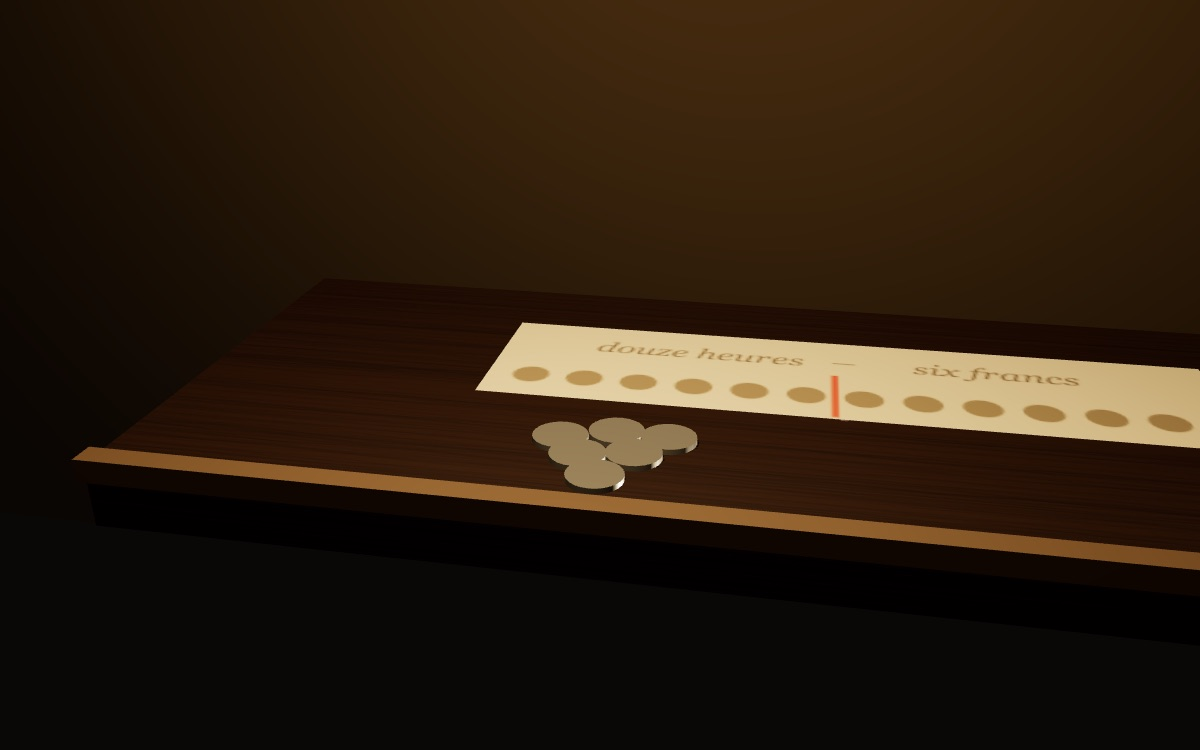
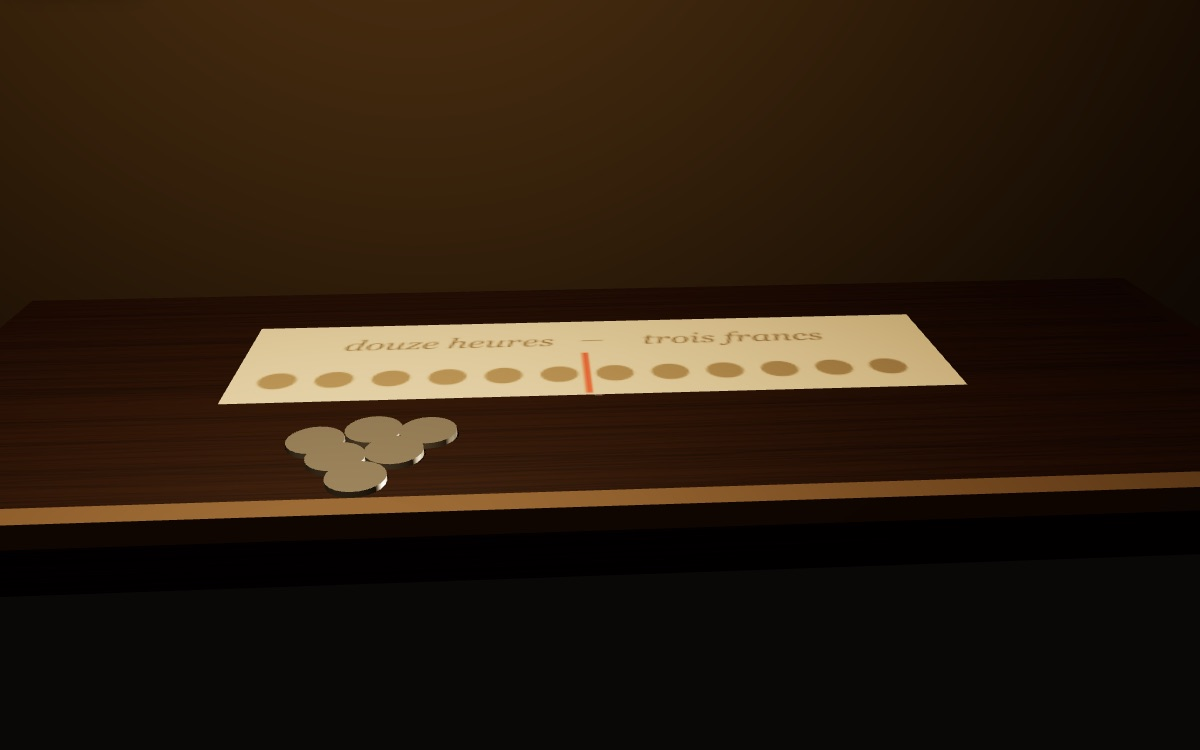
Glossaire : forme-salaire réécrite selon la charte, direction artistique « la paye »

Changed region(s): [[0.0, 0.368, 1.0, 0.7667], [0.0, 0.0, 0.1542, 0.2453], [0.925, 0.0, 1.0, 0.2147]]

diff --git a/glossaire/mondes/forme-salaire/essai.html b/glossaire/mondes/forme-salaire/essai.html
@@ -1,49 +1,85 @@
-<!-- L'ESSAI — le corps de /glossaire/forme-salaire. data-s="6" = Sixième
-     section de Roy (ch. XIX–XXII), « Le salaire ». Toutes les citations sont
-     relevées dans le texte que la liseuse sert, et chacune mène au passage. -->
+<!-- L'ESSAI : le corps de /glossaire/forme-salaire.
+     Fragment HTML, assemblé par tools/gen-seo.mjs dans le gabarit des pages
+     de notion (avec meta.json pour la tête, l'appareil et le monde).
+     Réécrit en octobre 2026 selon glossaire/mondes/CHARTE.md.
+     data-s="6" = sixième section de Roy (ch. XIX à XXII), « Le salaire ».
+     Chaque <q> et <blockquote data-s data-q> est une phrase RELEVÉE dans le
+     texte que la liseuse sert, insécables et apostrophes comprises : c'est
+     elle qui fait le lien #s=&q= vers le passage. -->
 
 <section class="nt-sec" data-etape="irrationnelle" id="irrationnelle">
-<h2>Une expression qui ne veut rien dire</h2>
-<p>Il y a dans le langage courant une expression que tout le monde emploie et que personne n'interroge&nbsp;: le <b>prix du travail</b>. On la trouve sur les affiches d'embauche comme dans les traités d'économie, et elle paraît si évidente qu'on ne voit pas ce qu'elle aurait d'obscur. Marx commence par montrer qu'elle est proprement impossible, et il faut suivre l'argument pas à pas, parce que c'est de son impossibilité même que tout le reste se déduit.</p>
-<p>Si le travail avait une valeur, il faudrait la mesurer&nbsp;; or on mesure la valeur d'une marchandise par le temps de travail qu'elle contient. Dire la valeur d'une journée de travail reviendrait donc à dire qu'elle vaut le temps de travail qu'elle contient, c'est-à-dire elle-même — une tautologie qui ne mesure rien. Marx le formule sans détour&nbsp;:</p>
+<h2>Que veut dire «&nbsp;le prix du travail&nbsp;»&nbsp;?</h2>
+<p class="nt-lead">Rien de précis, répond Marx&nbsp;: l'expression est irrationnelle. Elle s'impose pourtant à tout le monde, parce qu'elle décrit la manière dont le rapport entre le capitaliste et l'ouvrier se présente à ceux qui le vivent.</p>
+<p>L'ouvrier qui discute sa paie, le patron qui calcule ses coûts, l'économiste qui étudie les salaires parlent tous du prix du travail. L'expression paraît aussi claire que le prix du blé. Marx ouvre la sixième section du <i>Capital</i>, consacrée au salaire, en montrant qu'elle ne résiste pas à l'examen. Son premier argument tient à la définition de la valeur. On mesure la valeur d'une marchandise par le temps de travail qu'elle contient. Demander ce que vaut une journée de travail revient à répondre qu'elle vaut une journée de travail, et la mesure tourne en rond&nbsp;:</p>
 <blockquote data-s="6" data-q="Le travail est la substance et la mesure inhérente des valeurs, mais il n’a lui-même aucune valeur"><p>Le travail est la substance et la mesure inhérente des valeurs, mais il n’a lui-même aucune valeur.</p></blockquote>
-<p>Dans une telle expression, écrit-il, <q data-s="6" data-q="l’idée de valeur est complètement éteinte">l'idée de valeur est complètement éteinte</q>&nbsp;; c'est <q data-s="6" data-q="C’est une expression irrationnelle">une expression irrationnelle</q>, du même ordre que « valeur de la terre ». Mais — et c'est ici que le concept commence — l'irrationalité de la formule ne prouve pas qu'elle soit une bévue de langage qu'un peu de rigueur suffirait à corriger. Ces expressions, dit Marx, ont leur source dans les rapports de production eux-mêmes, dont elles réfléchissent les <q data-s="6" data-q="formes phénoménales">formes phénoménales</q>. Autrement dit&nbsp;: si tout le monde parle de prix du travail, ce n'est pas que tout le monde se trompe, c'est que le rapport se présente ainsi. La tâche n'est donc pas de corriger le mot, mais d'expliquer pourquoi la chose apparaît sous cette forme.</p>
+<p>Le second argument porte sur ce que l'ouvrier pourrait vendre. Pour vendre une chose, il faut l'avoir. Le travail n'existe qu'au moment où l'ouvrier met sa force en mouvement, et à ce moment il travaille déjà dans l'atelier d'un autre&nbsp;: <q data-s="6" data-q="dès que son travail existe, ce travail a déjà cessé de lui appartenir et ne peut plus désormais être vendu par lui">dès que son travail existe, ce travail a déjà cessé de lui appartenir et ne peut plus désormais être vendu par lui</q>. Dans l'expression «&nbsp;valeur du travail&nbsp;», conclut Marx, <q data-s="6" data-q="l’idée de valeur est complètement éteinte">l’idée de valeur est complètement éteinte</q>. <q data-s="6" data-q="C’est une expression irrationnelle">C’est une expression irrationnelle</q>, comme le serait «&nbsp;valeur de la terre&nbsp;».</p>
+<p>On pourrait s'en tenir là et corriger le vocabulaire. Marx va plus loin. Ces expressions, écrit-il, ont leur source dans les rapports de production eux-mêmes, dont elles réfléchissent les <q data-s="6" data-q="formes phénoménales">formes phénoménales</q>, c'est-à-dire la manière dont ces rapports apparaissent. Si tout le monde parle du prix du travail, c'est que le rapport salarial se donne à voir ainsi. Il faut donc expliquer pourquoi il apparaît sous cette forme, et la forme-salaire est le nom de cette apparence.</p>
 </section>
 
 <section class="nt-sec" data-etape="ou" id="ou">
-<h2>Où Marx le pose&nbsp;: après la plus-value, et non avant</h2>
-<p>Le salaire occupe la sixième section, et sa place est aussi raisonnée que celle de l'accumulation primitive à la fin du livre. On aurait pu croire qu'un ouvrage sur le capital devait commencer par lui, puisque c'est par le salaire que le rapport se donne à voir, et que c'est de lui que le lecteur a l'expérience. C'est précisément pourquoi il vient tard.</p>
-<p>Une forme transformée ne peut être analysée qu'après ce qu'elle transforme. Tant qu'on n'a pas établi que ce que le capitaliste achète est la <a href="/glossaire/force-de-travail">force de travail</a>, et que la journée se divise en un temps qui reproduit la valeur de cette force et un temps qui produit la <a href="/glossaire/plus-value">plus-value</a>, on n'a aucun moyen de dire ce que le salaire recouvre. On dirait alors ce que dit l'économie classique&nbsp;: que le salaire est le prix d'une marchandise nommée travail, et l'on chercherait indéfiniment autour de quel niveau ce prix oscille, sans jamais pouvoir dire ce qui est payé.</p>
-<p>Marx décrit ce blocage avec une précision qui vaut aussi pour la méthode&nbsp;: l'économie classique avait bien résolu <q data-s="6" data-q="la soi‑disant valeur du travail en valeur de la force de travail">la soi-disant valeur du travail en valeur de la force de travail</q>, mais sans voir qu'en le faisant elle avait changé les termes du problème au lieu de le résoudre. <q data-s="6" data-q="L’économie classique ne parvint jamais à s’apercevoir de ce quiproquo">L'économie classique ne parvint jamais à s'apercevoir de ce quiproquo</q>&nbsp;: elle tenait la solution sans savoir de quoi elle était la solution. L'ordre du Livre&nbsp;I corrige exactement cela — on ne peut nommer une forme que du point de vue de ce dont elle est la forme.</p>
+<h2>Pourquoi Marx ne parle-t-il du salaire qu'après la plus-value&nbsp;?</h2>
+<p class="nt-lead">Parce qu'une forme ne s'analyse qu'après ce qu'elle transforme. Le salaire est la forme que prend la valeur de la force de travail&nbsp;: il fallait d'abord établir ce qu'est cette force et ce qu'elle produit.</p>
+<p>Le salaire est ce que chacun connaît du capitalisme, l'expérience la plus commune de ce rapport. On aurait pu attendre qu'un livre sur le capital commence par lui. Marx le place à la sixième section, une fois acquis trois résultats. Le capitaliste achète la <a href="/glossaire/force-de-travail">force de travail</a>, c'est-à-dire la capacité de travailler pendant un temps donné. La journée se divise en un temps où l'ouvrier reproduit la valeur de cette force et un temps où il produit la <a href="/glossaire/plus-value">plus-value</a>. La longueur de la journée, enfin, fait l'objet d'une lutte entre les deux parties. Sans ces résultats, on ne saurait pas dire ce que le salaire recouvre.</p>
+<p>L'économie politique classique, celle d'Adam Smith et de David Ricardo, avait procédé dans l'autre sens. Elle avait reçu de la vie ordinaire la catégorie «&nbsp;prix du travail&nbsp;» et s'était demandé ensuite ce qui détermine ce prix. En cherchant le niveau autour duquel il oscille, elle avait ramené, dit Marx, <q data-s="6" data-q="la soi‑disant valeur du travail en valeur de la force de travail">la soi‑disant valeur du travail en valeur de la force de travail</q>. Elle tenait donc la bonne réponse, sans voir qu'elle avait changé les termes de la question&nbsp;: <q data-s="6" data-q="L’économie classique ne parvint jamais à s’apercevoir de ce quiproquo">l’économie classique ne parvint jamais à s’apercevoir de ce quiproquo</q>.</p>
+<p>L'ordre du livre contient ainsi une leçon de méthode. Une apparence se comprend à partir de ce qu'elle fait apparaître. Qui part du salaire reste pris dans ses termes, si savant soit-il. Qui y arrive après la plus-value peut dire à la fois ce que le salaire montre et ce qu'il cache.</p>
 </section>
 
 <section class="nt-sec" data-etape="distinction" id="distinction">
-<h2>La distinction qui fait le concept&nbsp;: ce qui est payé, ce qui paraît payé</h2>
-<p>Toute la notion tient dans l'écart entre deux choses que le salaire fait coïncider. Ce qui est acheté et payé, c'est la force de travail, à sa valeur, pour une journée. Ce qui paraît payé, c'est le travail de la journée, tout entier. La transaction est la même&nbsp;; sa lecture change du tout au tout.</p>
-<p>Marx le rend sensible en supposant un instant que l'expression fût exacte. Si l'ouvrier recevait vraiment la valeur de son travail — douze heures pour douze heures —, il ne produirait aucune plus-value, l'argent avancé ne se transformerait pas en capital, et <q data-s="6" data-q="la base de la production capitaliste disparaîtrait">la base de la production capitaliste disparaîtrait</q>. Le rapport ne peut donc pas fonctionner sur ce que sa propre formule affirme, et c'est là ce qui distingue une <i>forme phénoménale</i> d'un simple mensonge&nbsp;: le mensonge cacherait une transaction inéquitable, tandis qu'ici la transaction est parfaitement équitable et c'est sa forme qui égare.</p>
-<p>Il faut y insister, parce que c'est le point où l'on se trompe le plus souvent. Le salarié n'est pas volé sur le prix&nbsp;: il vend sa force à sa valeur, il reçoit ce qu'elle vaut, le contrat est tenu. Ce que la forme du salaire escamote n'est pas une somme, c'est une <b>coupure</b> — la ligne qui partage la journée entre le temps où le travailleur reproduit le prix de sa force et le temps où il travaille pour rien. La journée arrive payée d'un seul bloc, et rien dans le paiement n'indique où passait la limite.</p>
+<h2>Qu'est-ce qui est payé, et qu'est-ce qui paraît payé&nbsp;?</h2>
+<p class="nt-lead">Ce qui est payé, c'est la force de travail, à sa valeur, pour une journée. Ce qui paraît payé, c'est tout le travail de cette journée. Le salaire fait coïncider les deux, et la différence entre eux sort de la vue.</p>
+<p>Rappelons deux mots. Le travail nécessaire est la partie de la journée pendant laquelle l'ouvrier produit l'équivalent de ce qu'il reçoit. Le surtravail est la partie qui reste, pendant laquelle il produit la plus-value. Ces deux parties existent dans toute journée salariée. Le salaire, lui, ne les montre pas&nbsp;:</p>
+<blockquote data-s="6" data-q="fait donc disparaître toute trace de la division de la journée"><p>La forme salaire, ou payement direct du travail, fait donc disparaître toute trace de la division de la journée en travail nécessaire et surtravail, en travail payé et non payé, de sorte que tout le travail de l’ouvrier libre est censé être payé.</p></blockquote>
+
+<div class="nt-ex">
+<p class="nt-ex-t">Un exemple, avec les chiffres de Marx</p>
+<p>La force de travail vaut trois francs par jour&nbsp;: c'est ce que coûtent les subsistances de l'ouvrier, et il les reproduit en six heures. La journée dure douze heures&nbsp;: elle produit une valeur de six francs. L'ouvrier reçoit ses trois francs. Il est payé à la valeur de sa force, et le contrat est respecté. Mais dès qu'on confond la force avec ce qu'elle fait, on obtient la formule que Marx écrit en toutes lettres&nbsp;: <q data-s="6" data-q="Le travail de douze heures a une valeur de trois francs">Le travail de douze heures a une valeur de trois francs</q>.</p>
+<p>Dans cette phrase, les six heures où l'ouvrier produit la valeur de son salaire et les six autres, où il produit trois francs pour le capitaliste, se fondent en une seule durée. Les sommes sont exactes. La ligne qui séparait les deux moitiés de la journée, elle, a disparu. Si la force était payée quatre francs ou deux, la formule suivrait le mouvement, et Marx le résume d'une phrase&nbsp;: <q data-s="6" data-q="Il n’y a rien de changé que la forme">il n’y a rien de changé que la forme</q>.</p>
+</div>
+
+<p>Marx rend la distinction sensible par une supposition. Admettons que l'expression soit exacte et que l'ouvrier reçoive la valeur des douze heures. Il ne produirait alors aucune plus-value, l'argent avancé ne deviendrait pas capital, et <q data-s="6" data-q="la base de la production capitaliste disparaîtrait">la base de la production capitaliste disparaîtrait</q>. Le rapport ne peut donc pas fonctionner selon ce que dit sa propre formule. Une forme phénoménale diffère en cela d'une tromperie&nbsp;: l'échange respecte la loi de la valeur, et seule sa présentation égare.</p>
 </section>
 
 <section class="nt-sec" data-etape="mecanisme" id="mecanisme">
-<h2>Le mécanisme&nbsp;: comment la coupure disparaît</h2>
-<p>Marx compare trois rapports, et la comparaison est l'argument le plus net du chapitre. Dans le servage, la limite est visible parce qu'elle est <i>portée dans le monde</i>&nbsp;: <q data-s="6" data-q="le travail du corvéable pour lui-même et son travail forcé pour le seigneur sont nettement séparés l’un de l’autre par le temps et l’espace">le travail du corvéable pour lui-même et son travail forcé pour le seigneur sont nettement séparés l'un de l'autre par le temps et l'espace</q> — tel jour sur sa terre, tel jour sur celle du seigneur. Dans l'esclavage, la limite disparaît aussi, mais dans l'autre sens&nbsp;: la part où l'esclave ne fait que reproduire ses subsistances paraît, elle aussi, travail pour le maître, et <q data-s="6" data-q="Tout son travail revêt l’apparence de travail non payé">tout son travail revêt l'apparence de travail non payé</q>.</p>
-<p>Le travail salarié inverse exactement l'esclavage&nbsp;:</p>
-<blockquote data-s="6" data-q="même le surtravail ou travail non payé revêt l’apparence de travail payé"><p>C’est l’inverse chez le travail salarié&nbsp;: même le surtravail ou travail non payé revêt l’apparence de travail payé. Là le rapport de propriété dissimule le travail de l’esclave pour lui-même, ici <span></span>le rapport monétaire dissimule le travail gratuit du salarié pour son capitaliste.</p></blockquote>
-<p>On voit le déplacement&nbsp;: ce n'est plus une force extérieure qui masque la chose, c'est la forme de l'échange lui-même. Les deux chapitres suivants montrent comment cette forme se réalise en pratique. Le salaire au temps rapporte la somme reçue à une durée, ce qui produit une grandeur dérivée — le prix de l'heure — dont Marx montre qu'elle baisse à mesure que la journée s'allonge, si bien que l'allongement peut passer pour une faveur. Le salaire aux pièces paraît, lui, rompre avec le temps et payer le produit&nbsp;: c'est encore la même chose, puisque <q data-s="6" data-q="Le salaire aux pièces n’est qu’une transformation du salaire au temps">le salaire aux pièces n'est qu'une transformation du salaire au temps</q>. Il ajoute seulement que le contrôle du travail se passe désormais de surveillant, l'ouvrier ayant intérêt à se presser lui-même.</p>
+<h2>Pourquoi la limite entre travail payé et travail gratuit ne se voit-elle plus&nbsp;?</h2>
+<p class="nt-lead">Parce que tout passe par l'argent. Le servage montrait cette limite, l'esclavage la cachait dans un sens, le salariat la cache dans l'autre&nbsp;: un paiement unique semble couvrir toute la journée.</p>
+<p>Marx compare trois rapports de travail, et la comparaison fait voir ce que le salaire efface. Dans le servage, la limite se lit dans le monde&nbsp;: <q data-s="6" data-q="le travail du corvéable pour lui-même et son travail forcé pour le seigneur sont nettement séparés l’un de l’autre par le temps et l’espace">le travail du corvéable pour lui-même et son travail forcé pour le seigneur sont nettement séparés l’un de l’autre par le temps et l’espace</q>. Tel jour sur son champ, tel jour sur celui du seigneur&nbsp;: chacun sait pour qui il travaille. Dans l'esclavage, la limite disparaît, mais du côté opposé. La part de la journée où l'esclave ne fait que reproduire ses subsistances semble elle aussi faite pour son maître. <q data-s="6" data-q="Tout son travail revêt l’apparence de travail non payé">Tout son travail revêt l’apparence de travail non payé</q>. Le salariat renverse ce cas&nbsp;:</p>
+<blockquote data-s="6" data-q="même le surtravail ou travail non payé revêt l’apparence de travail payé"><p>C’est l’inverse chez le travail salarié&nbsp;: même le surtravail ou travail non payé revêt l’apparence de travail payé. Là le rapport de propriété dissimule le travail de l’esclave pour lui-même, ici le rapport monétaire dissimule le travail gratuit du salarié pour son capitaliste.</p></blockquote>
+<p>Pourquoi cette apparence s'impose-t-elle avec tant de force&nbsp;? Marx juge la réponse facile. S'il a fallu longtemps pour déchiffrer le secret du salaire, <q data-s="6" data-q="rien n’est au contraire plus facile à comprendre que la nécessité, que les raisons d’être de cette forme phénoménale">rien n’est au contraire plus facile à comprendre que la nécessité, que les raisons d’être de cette forme phénoménale</q>. D'abord, <q data-s="6" data-q="Rien ne distingue au premier abord l’échange entre capital et travail de l’achat et de la vente de toute autre marchandise">rien ne distingue au premier abord l’échange entre capital et travail de l’achat et de la vente de toute autre marchandise</q>&nbsp;: l'un donne de l'argent, l'autre fournit quelque chose. Ensuite, <q data-s="6" data-q="le travailleur n’est payé qu’après avoir livré son travail">le travailleur n’est payé qu’après avoir livré son travail</q>, si bien que l'argent semble régler après coup le prix d'une chose livrée. Enfin, ce dont le capitaliste se sert est bien le travail, l'usage de la force, et c'est cela qu'il croit acheter.</p>
+<p>Le capitaliste n'a d'ailleurs aucune raison de pousser l'analyse. Il veut le plus de travail possible pour le moins d'argent, et ce calcul lui suffit. Marx note avec ironie que s'il existait vraiment une valeur du travail et qu'il dût la payer, il n'y aurait plus de capital, et son argent <q data-s="6" data-q="perdrait la qualité occulte de faire des petits">perdrait la qualité occulte de faire des petits</q>.</p>
 </section>
 
 <section class="nt-sec" data-etape="ouvre" id="ouvre">
-<h2>Ce que le concept ouvre&nbsp;: d'où viennent les évidences</h2>
-<p>La portée de cette analyse dépasse de loin la question des salaires. Si la forme du salaire fait apparaître comme payée une journée qui ne l'est qu'à moitié, alors elle ne trompe pas seulement sur un fait&nbsp;: elle fournit le sol sur lequel poussent les représentations que les deux parties se font de leur rapport. Marx le dit dans une phrase dont chaque terme compte&nbsp;:</p>
-<blockquote data-s="6" data-q="rend invisible le rapport réel entre capital et travail et en montre précisément le contraire"><p>[Cette forme phénoménale] rend invisible le rapport réel entre capital et travail et en montre précisément le contraire&nbsp;; c’est d’elle que dérivent toutes les notions juridiques du salarié et du capitaliste, toutes les mystifications de la production capitaliste, toutes les illusions libérales et tous les faux‑fuyants apologétiques de l’économie vulgaire.</p></blockquote>
-<p>Ce que le concept ouvre, c'est donc une manière de traiter les évidences. Elles ne sont ni des erreurs à réfuter ni des mensonges à dénoncer&nbsp;: elles sont les formes sous lesquelles un rapport se donne nécessairement à voir à ceux qui y sont pris. On reconnaît ici le geste du <a href="/glossaire/fetichisme">fétichisme</a>, appliqué cette fois non à la marchandise mais au contrat de travail — et l'on comprend que Marx range parmi les effets de la forme-salaire jusqu'aux catégories du droit, ce qui est une thèse forte et qu'il faut prendre au sérieux&nbsp;: l'égalité des contractants n'est pas une fiction plaquée sur le rapport, elle en est l'expression exacte au niveau où il se présente.</p>
-<p>Nous ajoutons, parce que le texte y invite et que la suite du livre le confirme, que cette analyse ne conduit pas au fatalisme. Si la forme rend la coupure invisible, elle ne la supprime pas&nbsp;: la lutte sur la longueur de la journée et sur le taux du salaire porte, en fait, sur la place de cette limite, quoi qu'en disent les termes dans lesquels elle se mène.</p>
+<h2>Que produit cette apparence&nbsp;?</h2>
+<p class="nt-lead">Elle produit les évidences des deux parties&nbsp;: les catégories du droit, la croyance en un contrat entre égaux, les justifications de l'économie. Elle règle aussi la façon dont on paie, à l'heure ou à la pièce.</p>
+<p>Marx tire lui-même la conséquence, dans une phrase où chaque terme compte&nbsp;:</p>
+<blockquote data-s="6" data-q="rend invisible le rapport réel entre capital et travail et en montre précisément le contraire"><p>Cette forme, qui n’exprime que les fausses apparences du travail salarié, rend invisible le rapport réel entre capital et travail et en montre précisément le contraire&nbsp;; c’est d’elle que dérivent toutes les notions juridiques du salarié et du capitaliste, toutes les mystifications de la production capitaliste, toutes les illusions libérales et tous les faux‑fuyants apologétiques de l’économie vulgaire.</p></blockquote>
+<p>Au regard du droit, le contrat de travail ressemble à n'importe quel contrat. Marx rappelle les formules latines par lesquelles les juristes classent les échanges, <i>do ut des, do ut facias</i>, «&nbsp;je donne pour que tu donnes, je donne pour que tu fasses&nbsp;». L'égalité des contractants exprime donc le rapport tel qu'il se présente&nbsp;: chacun donne, chacun reçoit, et la journée est payée. On reconnaît le geste du <a href="/glossaire/fetichisme">fétichisme</a>, appliqué cette fois au contrat de travail. Les évidences de chacun sont les formes sous lesquelles le rapport se donne à ceux qui y sont pris.</p>
+
+<div class="nt-ex">
+<p class="nt-ex-t">Le prix de l'heure, avec les chiffres de Marx</p>
+<p>Le salaire au temps, payé à la journée ou à la semaine, fait naître une grandeur nouvelle, le prix d'une heure. On l'obtient en divisant la valeur journalière de la force par le nombre d'heures de la journée. Avec une force qui vaut trois francs, l'heure est payée 30 centimes si la journée dure dix heures, 25 centimes si elle en dure douze, 20 centimes si elle en dure quinze. Pendant ce temps, l'ouvrier reçoit toujours ses trois francs&nbsp;: <q data-s="6" data-q="Le salaire journalier ou hebdomadaire reste malgré cela invariable">le salaire journalier ou hebdomadaire reste malgré cela invariable</q>.</p>
+<p>Le mouvement joue aussi dans l'autre sens. Quand l'heure est mal payée, l'ouvrier doit travailler plus longtemps pour réunir de quoi vivre. <q data-s="6" data-q="Le bas prix du travail agit donc comme stimulant pour la prolongation du temps de travail">Le bas prix du travail agit donc comme stimulant pour la prolongation du temps de travail</q>, et l'allongement de la journée, à son tour, fait baisser le prix de l'heure.</p>
+</div>
+
+<p>Le salaire aux pièces semble rompre avec le temps, puisqu'il paie le produit. Marx montre qu'il en est une variante&nbsp;: <q data-s="6" data-q="Le salaire aux pièces n’est qu’une transformation du salaire au temps">le salaire aux pièces n’est qu’une transformation du salaire au temps</q>. Le prix de la pièce est calculé pour qu'un ouvrier d'habileté moyenne gagne, en une journée, la valeur de sa force. Cette forme a des effets qui lui sont propres. L'ouvrier a intérêt à se presser lui-même, et le contrôle se fait par l'ouvrage livré, de sorte qu'<q data-s="6" data-q="une grande partie du travail de surveillance devient superflue">une grande partie du travail de surveillance devient superflue</q>. Elle permet aussi aux intermédiaires de s'installer entre le capitaliste et les ouvriers&nbsp;: l'anglais nommait ce système <i lang="en">sweating system</i>, et Marx le résume ainsi&nbsp;: <q data-s="6" data-q="L’exploitation des travailleurs par le capital se réalise ici au moyen de l’exploitation du travailleur par le travailleur">l’exploitation des travailleurs par le capital se réalise ici au moyen de l’exploitation du travailleur par le travailleur</q>.</p>
+<div data-planche="atelier"></div>
+<p>Nous ajoutons que cette analyse ne conduit pas au fatalisme. La forme rend la limite invisible, elle ne la supprime pas. Quand les ouvriers obtiennent qu'on réduise la journée, comme le raconte le chapitre X, ils déplacent cette limite, même s'ils le font dans le langage du salaire.</p>
 </section>
 
 <section class="nt-sec" data-etape="lectures" id="lectures">
-<h2>Lectures, et contresens</h2>
-<p>Le contresens le plus répandu consiste à entendre l'analyse comme une accusation de vol&nbsp;: le patron paierait l'ouvrier moins que son travail ne vaut. C'est exactement ce que Marx écarte. L'ouvrier est payé à la valeur de sa force, et l'échange respecte la loi de la valeur&nbsp;; s'il en allait autrement, il n'y aurait aucun besoin d'une théorie, et il suffirait de réclamer un prix juste. Toute la difficulté du concept tient à ce qu'il faut expliquer une exploitation <i>sans</i> tricherie.</p>
-<p>Le deuxième contresens fait du « prix du travail » une simple impropriété, que l'on corrigerait en disant « prix de la force de travail ». La correction est juste, mais si l'on s'y arrête on perd le concept&nbsp;: l'expression irrationnelle n'est pas un défaut de vocabulaire, c'est la manière dont le rapport se manifeste, et c'est pourquoi elle survit à toutes les rectifications. Il ne suffit pas de savoir que la formule est fausse pour cesser de voir le monde comme elle le montre — Marx le note en observant qu'il faut <q data-s="6" data-q="distinguer entre les apparences des choses et leur réalité">distinguer entre les apparences des choses et leur réalité</q>, ce que toutes les sciences savent, à l'économie politique près.</p>
-<p>Le troisième contresens tient au salaire aux pièces, qu'on présente encore volontiers comme la forme la plus équitable, puisqu'on y paierait le travail réellement fourni. Le chapitre XXI montre l'inverse&nbsp;: la pièce n'est qu'une mesure du temps par un détour, et la forme déplace sur l'ouvrier le soin de son propre pressurage, en même temps qu'elle ouvre la voie aux retenues sur la qualité et au marchandage. Ce qui paraît le plus proche du produit est ce qui éloigne le plus du rapport.</p>
-<p>Reste enfin à ne pas confondre la forme-salaire avec le montant du salaire. La première est une forme, c'est-à-dire une manière dont le rapport se présente&nbsp;; le second est une grandeur, qui monte et qui descend. On peut augmenter le second sans toucher à la première, et c'est même le cas ordinaire&nbsp;: une journée mieux payée reste une journée dont on ne voit pas où la limite passe.</p>
+<h2>Quels contresens éviter sur la forme-salaire&nbsp;?</h2>
+<p class="nt-lead">La forme-salaire décrit une apparence que le rapport produit de lui-même, et qu'aucune bonne foi ne dissipe. La plupart des contresens viennent de ce qu'on oublie ce point.</p>
+<p>Il faut d'abord distinguer la forme du salaire et son montant. La forme est une manière dont le rapport se présente&nbsp;; le montant est une grandeur, qui monte et qui descend. On peut augmenter le second sans toucher à la première, et c'est même le cas ordinaire. Une journée mieux payée reste une journée dont on ne voit pas où passe la limite entre le travail payé et le travail gratuit. Marx renvoie ici à une règle que toutes les sciences connaissent&nbsp;: on sait, écrit-il, qu'il faut <q data-s="6" data-q="distinguer entre les apparences des choses et leur réalité">distinguer entre les apparences des choses et leur réalité</q>, et il ajoute que l'économie politique fait exception.</p>
+<div class="nt-cs">
+<p><span class="nt-cs-k">On lit souvent</span> Marx accuserait le patron de voler l'ouvrier en le payant moins que son travail ne vaut.</p>
+<p><span class="nt-cs-k">Ce que dit le texte</span> L'ouvrier reçoit la valeur de sa force, et l'échange respecte la loi de la valeur. Toute la difficulté du concept tient à ce qu'il explique une exploitation sans tricherie sur le prix. S'il s'agissait d'un vol, il suffirait de réclamer un prix juste.</p>
+</div>
+<div class="nt-cs">
+<p><span class="nt-cs-k">On lit souvent</span> «&nbsp;Prix du travail&nbsp;» serait une simple impropriété, qu'on corrige en disant «&nbsp;prix de la force de travail&nbsp;».</p>
+<p><span class="nt-cs-k">Ce que dit le texte</span> La correction est juste, mais elle ne fait pas disparaître l'apparence. Marx rattache ces expressions aux rapports de production eux-mêmes&nbsp;: elles survivent aux rectifications, parce que le rapport continue de se présenter ainsi à ceux qui le vivent.</p>
+</div>
+<div class="nt-cs">
+<p><span class="nt-cs-k">On lit souvent</span> Le salaire aux pièces serait la forme la plus équitable, puisqu'il paierait exactement le travail fourni.</p>
+<p><span class="nt-cs-k">Ce que dit le texte</span> Le chapitre XXI en fait une transformation du salaire au temps. La pièce mesure le temps par un détour, et cette forme ajoute ses propres effets&nbsp;: l'ouvrier se surveille lui-même, et des intermédiaires prélèvent leur part entre le capitaliste et lui.</p>
+</div>
 </section>

diff --git a/glossaire/mondes/forme-salaire/monde.js b/glossaire/mondes/forme-salaire/monde.js
@@ -10,7 +10,7 @@
    comptoir — les douze heures —, une marque à la craie après le sixième,
    les pièces comptées à côté ; puis une BANDE DE PAPIER posée en travers,
    qui couvre les jetons et la marque, et sur laquelle il n'y a plus qu'une
-   ligne : douze heures, six francs. La rangée se lit alors d'une seule
+   ligne : douze heures, trois francs. La rangée se lit alors d'une seule
    venue.
 
    Au dernier temps une lumière prend SOUS le comptoir, et la division
@@ -75,7 +75,7 @@ window.LM_MONDE = function (canvas) {
     new THREE.MeshBasicMaterial({ color: 0xe7503c, transparent: true, opacity: 0 }));
   marque.rotation.x = -Math.PI / 2; marque.position.set(XM, 0.004, ZJ); marque.renderOrder = 2; scene.add(marque);
 
-  /* ── les pièces : six francs, comptés à côté ── */
+  /* ── les pièces : trois francs en six pièces, comptés à côté ── */
   var pieces = [];
   [[-0.60, 0.30], [-0.49, 0.26], [-0.55, 0.37], [-0.44, 0.35], [-0.38, 0.27], [-0.50, 0.45]].forEach(function (p) {
     var m = new THREE.Mesh(new THREE.CylinderGeometry(0.058, 0.058, 0.012, 24), std({ color: 0xdcd6c6, metalness: 0.8, roughness: 0.27 }));
@@ -116,7 +116,9 @@ window.LM_MONDE = function (canvas) {
       pg.font = '44px Georgia, serif';
       pg.fillText('—', PW * 0.50, PH * 0.34);
       pg.font = 'italic 54px Georgia, serif';
-      pg.fillText('six francs', PW * 0.71, PH * 0.36);
+      /* la formule de Marx au chapitre XIX : « Le travail de douze heures a
+         une valeur de trois francs » (les six pièces sont des demi-francs) */
+      pg.fillText('trois francs', PW * 0.71, PH * 0.36);
       pg.globalAlpha = 1;
     }
     papTex.needsUpdate = true;
@@ -185,7 +187,12 @@ window.LM_MONDE = function (canvas) {
     var dist = camera.position.distanceTo(camA);
     var fwd = new THREE.Vector3().subVectors(camA, camera.position).normalize();
     var right = new THREE.Vector3().crossVectors(fwd, V3(0, 1, 0)).normalize();
-    aim.copy(camA).addScaledVector(right, -Math.min(0.26 * dist, 0.55));
+    /* le décalage vers la gauche laissait la place à la colonne de texte de
+       l'ancienne architecture « plein » ; dans la figure il décentrait le
+       comptoir : il ne joue plus que sur un canevas d'au moins 1100 px qui
+       ne serait pas une figure. */
+    var large = canvas.clientWidth >= 1100 && !(canvas.closest && canvas.closest('.nt-fig'));
+    aim.copy(camA).addScaledVector(right, large ? -Math.min(0.26 * dist, 0.55) : 0);
     camera.lookAt(aim);
     render();
   }
